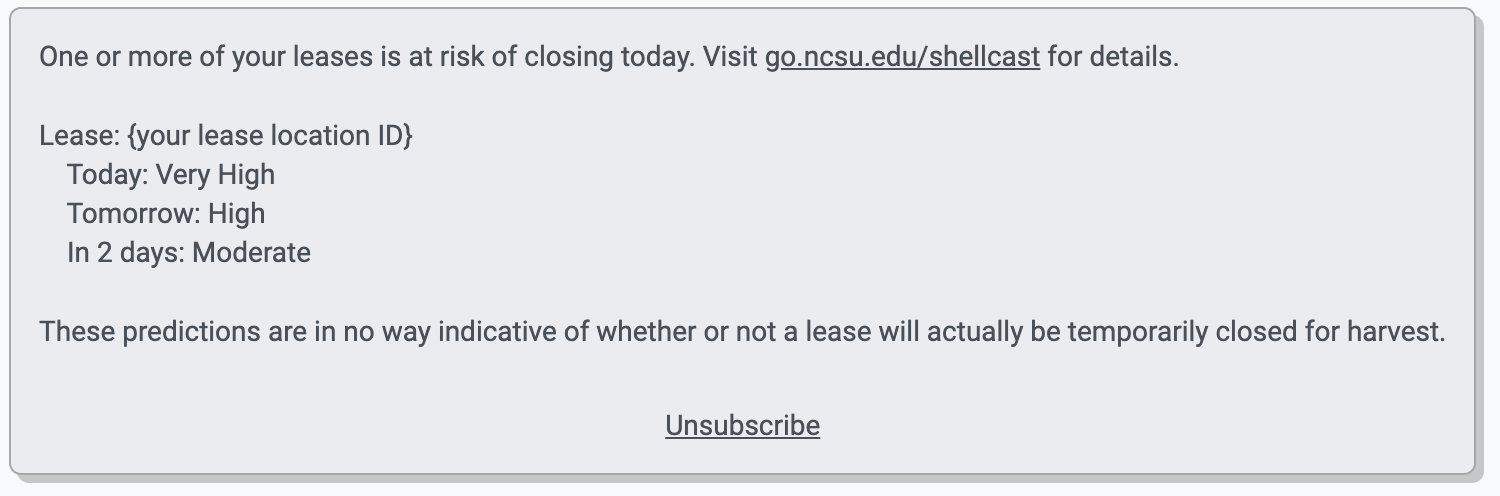
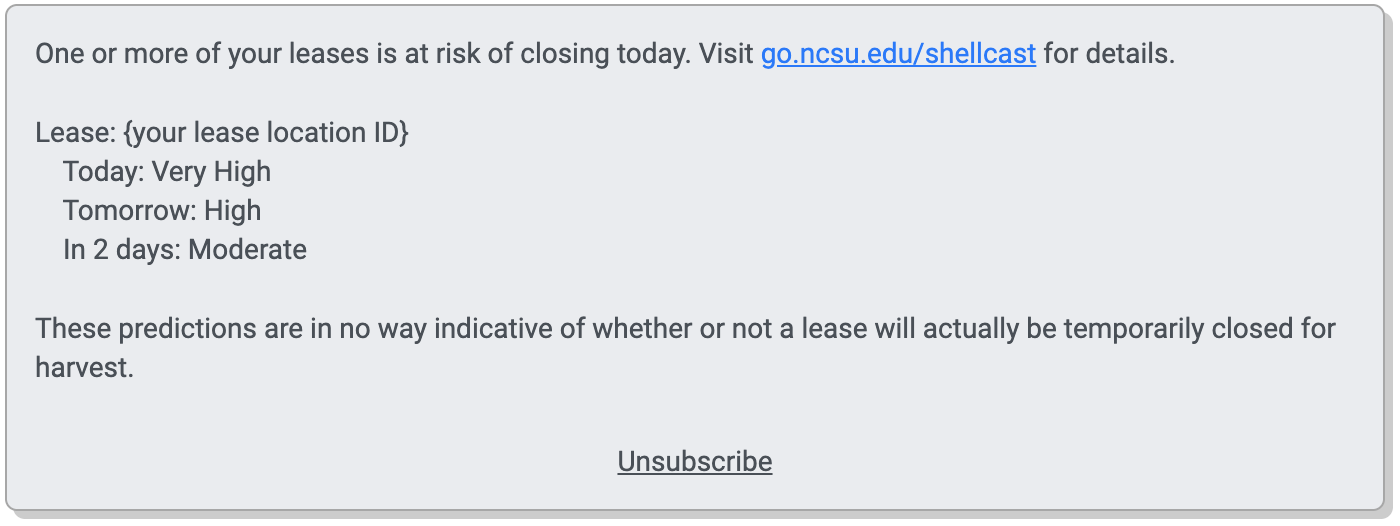
Update SC notification UI: fix image references and update templates
- Update notification preference images
- Fix typo in notification_text_opt-in.png filename
- Update notification-service.html and preferences.html templates
- Update preferences.js functionality
- Remove unused example_email_notification.png

diff --git a/web/shellcast-web-sc/templates/preferences.html b/web/shellcast-web-sc/templates/preferences.html
@@ -84,14 +84,18 @@
                       <div class="form-check consent-checkbox">
                         <input class="form-check-input" type="checkbox" name="email-consent" id="email-consent">
                         <label class="form-check-label" for="email-consent">
-                          By providing my email address, I consent to ShellCast sending me email notifications 
+                          By submitting your email address, you consent to receiving email notifications 
                           about lease closures and forecast information, maintenance updates, and other 
-                          ShellCast-related notifications. I understand that message frequency may vary. 
-                          I can revoke this consent or opt out at any time by clicking <b>Unsubscribe</b> in 
-                          any notificationemail or by unchecking consent on the ShellCast website. 
-                          For assistance, I can contact <a href="mailto:[email redacted]">[email redacted]</a>.
-                          The <a href="/notification-service">Terms of Conditions and Privacy Policy</a> 
-                          are available for review.
+                          ShellCast-related notifications from ShellCast.</br>
+                          <ul class="mb-0">
+                            <li>Message frequency may vary.</li>
+                            <li>You can opt out at any time by clicking <u>Unsubscribe</u> in any notification email or 
+                              update your preferences by visiting the <i>Preferences</i> page on the 
+                              <a href="https://ncsu-shellcast.appspot.com/">https://go.ncsu.edu/shellcast</a>.</li>
+                            <li>For assistance, contact us at <a href="mailto:[email redacted]">[email redacted]</a>.</li>
+                            <li>The <a href="/notification-service">Terms of Conditions and Privacy Policy</a> 
+                              are available for review.</li>
+                          </ul>
                         </label>
                       </div>
                     </div>
@@ -135,11 +139,11 @@
             <div class="notification-accordion">
               <div class="accordion-header">
                 <div class="form-check">
-                  <input class="form-check-input" type="checkbox" name="text-pref" id="text-pref" disabled>
+                  <input class="form-check-input" type="checkbox" name="text-pref" id="text-pref">
                   <label class="form-check-label" for="text-pref">Text</label>
-                  <small class="text-danger ml-2">
+                  <!-- <small class="text-danger ml-2">
                     <i class="fas fa-exclamation-triangle"></i> Temporarily unavailable for system update
-                  </small>
+                  </small> -->
                 </div>
                 <div class="accordion-controls">
                   <button type="button" class="btn btn-sm btn-outline-secondary" id="text-expand-btn" title="Expand">
@@ -170,7 +174,7 @@
                       Please enter a valid phone number.
                     </div>
                     <small id="phoneHelp" class="form-text text-muted">
-                      This phone number must be able to receive text messages (MMS).
+                      This phone number must be able to receive text messages (SMS).
                       If you choose to receive text notifications with ShellCast
                       forecast information for your lease(s), the notifications will
                       be sent to this number. Message and data rates may apply.
@@ -180,13 +184,19 @@
                       <div class="form-check consent-checkbox">
                         <input class="form-check-input" type="checkbox" name="text-consent" id="text-consent">
                         <label class="form-check-label" for="text-consent">
-                          By providing my mobile number, I consent to ShellCast sending me text message 
-                          notifications about lease closures and forecast information. I understand that 
-                          message frequency may vary, and standard message and data rates may apply. 
-                          I can revoke this consent or opt out at any time by replying <b>STOP</b> or unchecking 
-                          consent on the ShellCast website. For assistance, I can reply <b>HELP</b>. 
-                          The <a href="/notification-service">Terms of Conditions and Privacy Policy</a> 
-                          are available for review.
+                          By submitting your mobile phone number, you consent to receiving text 
+                          message notifications about lease closures and forecast information from ShellCast.
+                          <ul class="mb-0"> 
+                            <li>Consent is not a condition of purchase.</li>
+                            <li>Message frequency varies.</li>
+                            <li>Message and data rates may apply.</li>
+                            <li>For support, reply <b>HELP</b> or email us at <a href="mailto:[email redacted]">[email redacted]</a>.</li>
+                            <li>You can opt out at any time by replying <b>STOP</b> or update your preferences by 
+                              visiting the <i>Preferences</i> page on the 
+                              <a href="https://ncsu-shellcast.appspot.com/">https://go.ncsu.edu/shellcast</a>.</li>
+                            <li>The <a href="/notification-service">Terms of Conditions and Privacy Policy</a> 
+                              are available for review.</li>
+                          </ul> 
                         </label>
                       </div>
                     </div>
@@ -202,9 +212,9 @@
                       <label for="example-notification" class="form-label">Text Message Example:</label>
                       <div class="text-bubble" id="example-notification">
                         <p>
-                          One or more of your leases is at risk of closing today, tomorrow or in 2 days. Visit 
-                          <a href="https://ncsu-shellcast.appspot.com/">go.ncsu.edu/shellcast</a> for details. 
-                          Msg frequency varies. Msg & data rates may apply. Reply HELP for support. Reply STOP to cancel.
+                          ShellCast: One or more your leases is at risk of closing today, tomorrow, or in 2 days. 
+                          Visit <a href="https://ncsu-shellcast.appspot.com/">go.ncsu.edu/shellcast</a> for details. 
+                          Reply STOP to cancel.
                         </p>
                       </div>
                       <small class="form-text text-muted">

diff --git a/web/shellcast-web-sc/static/preferences/preferences.js b/web/shellcast-web-sc/static/preferences/preferences.js
@@ -980,11 +980,11 @@ function updateNotificationStatus() {
     }
     
     if (emailMissingItems.length > 0) {
-      emailStatusText.innerHTML = `⚠️ To enable email: ${emailMissingItems.join(", ")}`;
+      emailStatusText.innerHTML = `⚠️ To receive notifications: ${emailMissingItems.join(", ")}`;
       emailStatusText.style.color = "orange";
       emailStatusText.style.textAlign = "left";
     } else {
-      emailStatusText.innerHTML = "📧 Select email preference to enable";
+      emailStatusText.innerHTML = "📧 You will not receive notifications - `Email` unchecked";
       emailStatusText.style.color = "blue";
       emailStatusText.style.textAlign = "left";
     }
@@ -1009,11 +1009,11 @@ function updateNotificationStatus() {
     }
     
     if (textMissingItems.length > 0) {
-      textStatusText.innerHTML = `⚠️ To enable text: ${textMissingItems.join(", ")}`;
+      textStatusText.innerHTML = `⚠️ To receive notifications: ${textMissingItems.join(", ")}`;
       textStatusText.style.color = "orange";
       textStatusText.style.textAlign = "left";
     } else {
-      textStatusText.innerHTML = "📱 Select text preference to enable";
+      textStatusText.innerHTML = "📱 You will not receive notifications - `Text` unchecked";
       textStatusText.style.color = "blue";
       textStatusText.style.textAlign = "left";
     }

diff --git a/web/shellcast-web-sc/templates/notification-service.html b/web/shellcast-web-sc/templates/notification-service.html
@@ -36,7 +36,7 @@
                 email address, confirm consent, and save the settings. Users can opt-in to both options.
             </p>
             <h5>Opt-In Form Examples</h5>
-            <img src="{{ url_for('static', filename='img/preference/notificcation_text_opt-in.png') }}" alt="Text Message Opt-In" style="width: 90%; height: auto;">
+            <img src="{{ url_for('static', filename='img/preference/notification_text_opt-in.png') }}" alt="Text Message Opt-In" style="width: 90%; height: auto;">
             <img src="{{ url_for('static', filename='img/preference/notification_email_opt-in.png') }}" alt="Email Message Opt-In" style="width: 90%; height: auto;">
         </div>
             
@@ -99,8 +99,9 @@
         
         <h5>Help Message Example</h5>
         <p>
-            "Thank you for reaching out. Please emal <a href="mailto:[email redacted]"></a> for support.
-            Reply STOP to cancel."
+            "Thank you for reaching out to ShellCast. For support, please email us at 
+            <a href="mailto:[email redacted]">[email redacted]</a>.
+            Reply STOP to opt out."
         </p>
 
         <h3>5. Privacy Policy</h3>